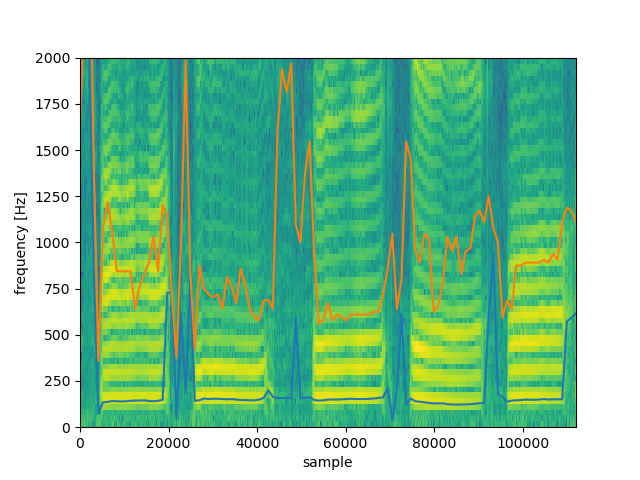
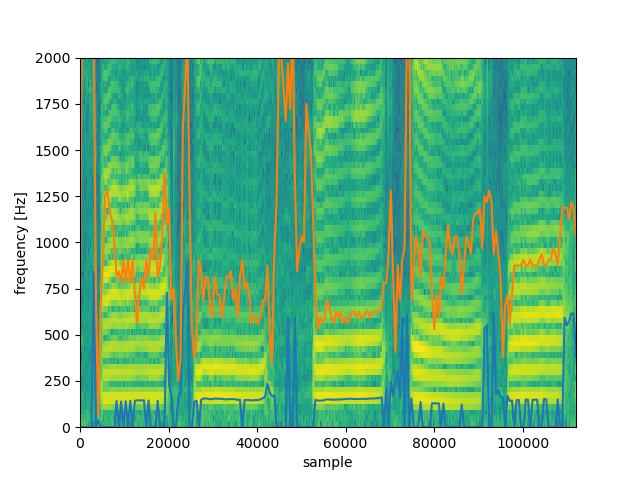
有声音・無声音を識別

diff --git a/zero_cross.py b/zero_cross.py
@@ -54,6 +54,26 @@ def get_f0s(waveform, sampling_rate, size_frame):
   return f0s
 
 
+def is_voiced_sound(waveform, sampling_rate):
+  f0 = get_f0(waveform, sampling_rate)
+  zcr = zero_cross_rate(waveform, sampling_rate)
+  rate = zcr / f0
+  return 1.5 < rate < 6.0
+
+
+def get_f0s_voiced(waveform, sampling_rate, size_frame):
+  f0s = []
+  for i in np.arange(0, len(waveform) - size_frame, size_frame):
+    idx = int(i)
+    x_frame = waveform[idx: idx + size_frame]
+    if is_voiced_sound(x_frame, sampling_rate):
+      f0 = get_f0(x_frame, sampling_rate)
+    else:
+      f0 = 0
+    f0s.append(f0)
+  return f0s
+
+
 def spectrogram(waveform, size_frame, size_shift):
   spectrogram = []
 
